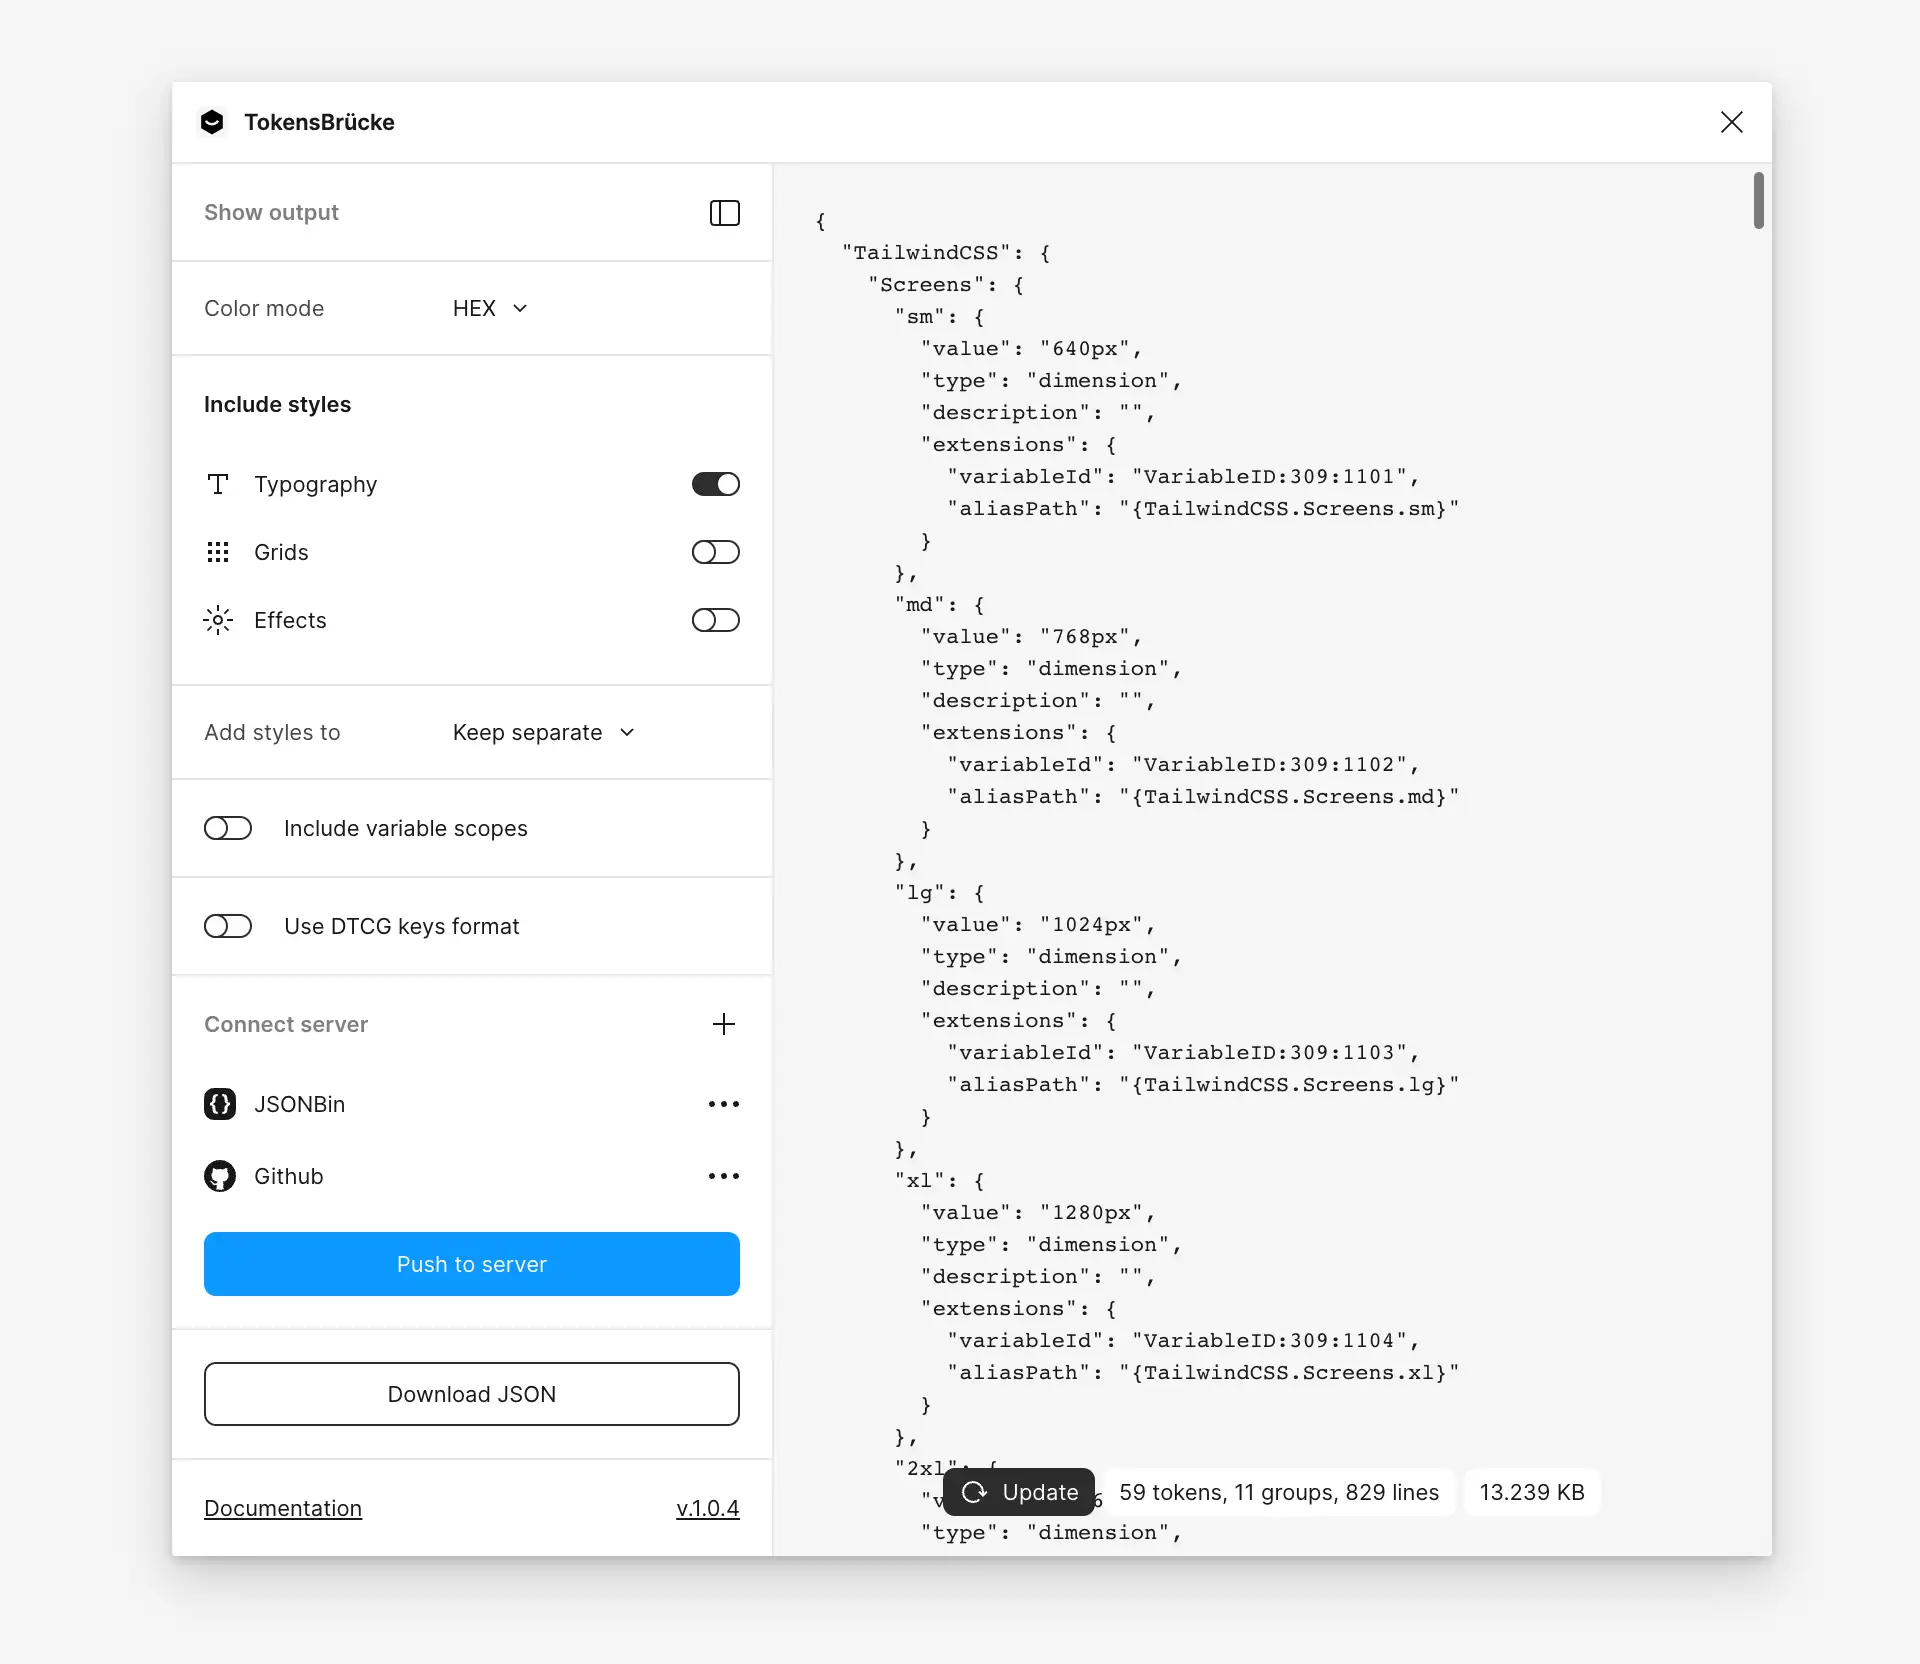
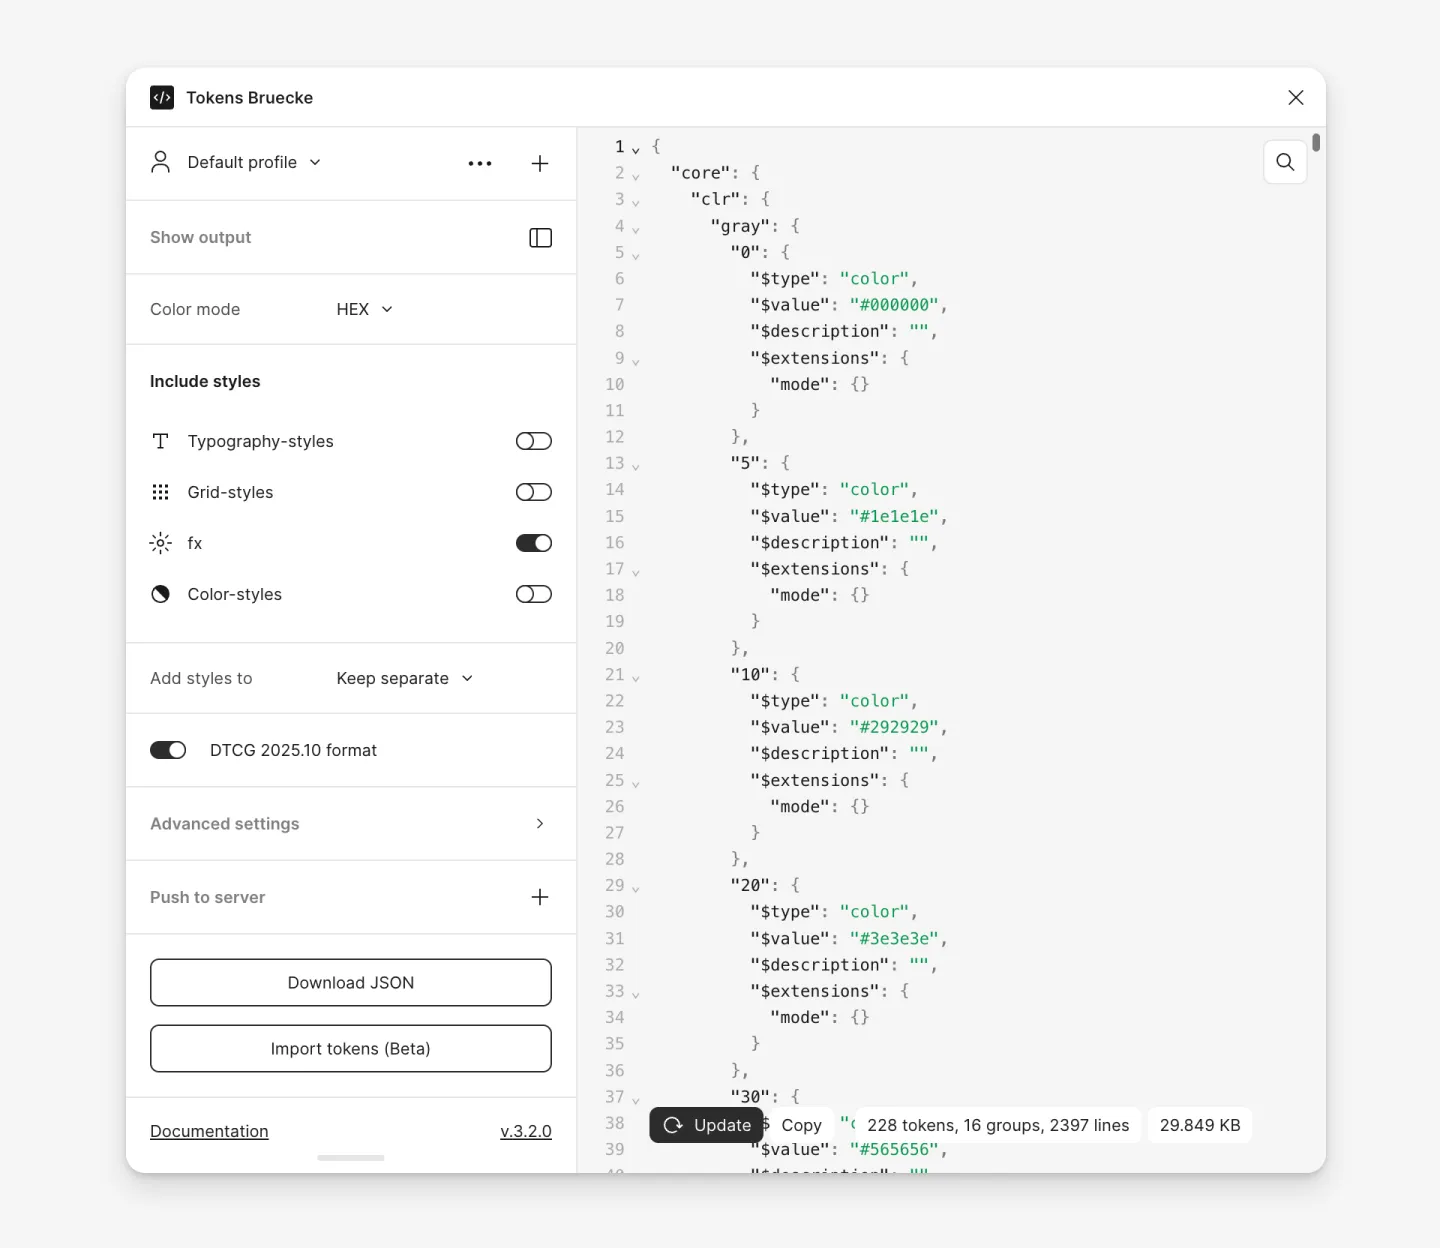
update readme images

diff --git a/README.md b/README.md
@@ -489,7 +489,15 @@ There is a possibilty to connect a custom server. In order to do that you need t
 
 ## Show output
 
-If you want to see the generated JSON, you can enable the `Show output` option. The plugin will show the JSON in the sidebar. The output doesn't update automatically, in order to optimize the performance. So, if you want to see the updated JSON, you need to click the `Update` button.
+If you want to see the generated JSON, you can enable the `Show output` option. The plugin will show the JSON in a code preview sidebar with:
+
+- Syntax highlighting that matches the Figma theme
+- Line numbers and code folding for collapsing groups
+- Search with match highlighting
+- A `Copy` button to copy the whole JSON to the clipboard
+- A stats bar showing the number of tokens, groups, lines, and the file size
+
+The output doesn't update automatically, in order to optimize the performance. So, if you want to see the updated JSON, you need to click the `Update` button.
 
 ![fig.10](readme-assets/fig10.webp)
 